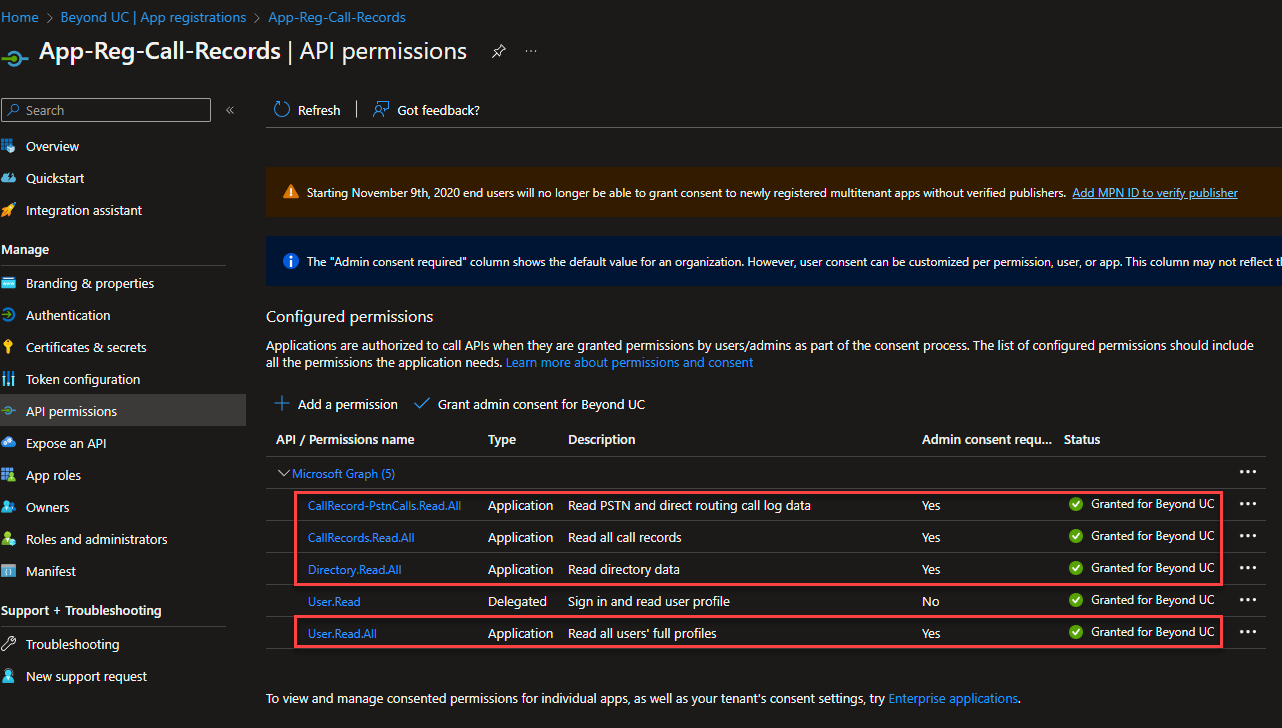
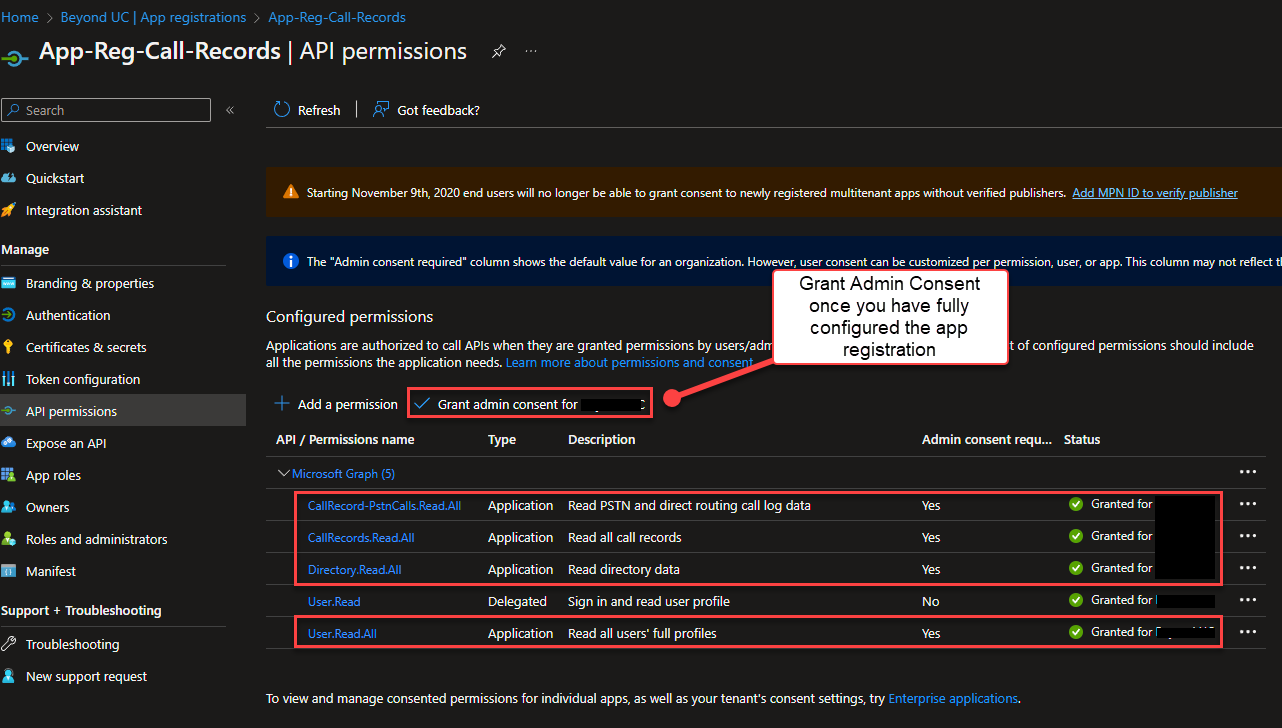
Updated Documentation

Changed region(s): [[0.312, 0.3626, 0.8112, 0.5742], [0.8736, 0.6648, 0.9672, 0.8764]]

diff --git a/README.md b/README.md
@@ -11,17 +11,93 @@
 
 # Setup
 
-Clone Repo
+1. Fork Repo
+
+![image info](./images/8.png) 
+
+2. App Registration Creation
+
+    - Create a new App Registration in AAD and select "Web" for the Redirect URI and leave the value empty. Click "Register"
+    - Create a Client Secret and give it a period of your choosing
+    - Make the below modifications to support oAuth Flowtype and permissions required:
+
+![image info](./images/1.png) 
+
+![image info](./images/2.png) 
+
+![image info](./images/3.png) 
+
+1. Create Resource Group
+
+    navigate to http://portal.azure.com and Create a Resource Group in the appropriate region
+
+    ![image info](./images/9.png) 
+
+2. Create Azure Function
+
+    Select the Market place template for Function App
+    
+    ![image info](./images/10.png) 
+
+    Create an Azure function with the following properties:
+    - Publish: Code
+    - Runtime Stack: .NET
+    - Version: 6
+    - Operating System: Windows
+    - Plan type: Comsumption (Serverless)
+  
+    ![image info](./images/11.a.png) 
+    
+    ![image info](./images/11.b.png) 
+    
+    ![image info](./images/11.c.png) 
+    
+    ![image info](./images/11.d.png) 
+
+3. Configuration
+
+    Navigate to the Function App-->Settings-->Configuration
+    
+    ![image info](./images/12.png) 
+
+    Add the following App Configuration settings
+
+    - Name: TenantID, Value: [TENANT ID OF YOUR APP REGISTRATION CREATED EARLIER]
+    - Name: ClientID, Value: [CLIENT ID OF YOUR APP REGISTRATION CREATED EARLIER]
+    - Name: ClientSecret, Value: [ClientSecret OF YOUR APP REGISTRATION CREATED EARLIER]
+    - Name: TeamsWebHook, Value: [INCOMING WEBHOOK URI TO ACCEPT NOTIFICATION]
+    - Name: ThresholdLimit, Value: [THRESHOLD WHEN CLOSE TO PLAN LIMIT, DEFAULT IS 80 FOR 80%]
+    - Name: NotificationType, Value: [HOW TO BE NOTIFIED: Teams, Console, or ALL]
+    - Name: SendOnlyWhenThresholdExceeded, Value: [true or false]
+    - Name: CronTimerSchedule, Value: [a CRON syntax string to run the function, Default setting is every 10 minutes for testing. please change this to once a day ]
+      - Some example values:
+        - 0 */10 * * * * = Once every 10 Minutes
+        - 0 */1 * * * * = Once every Minute
+        - 0 0 22 * * * = Once every day at 10:00PM
+     
+# Run
+
+Restart the function once the configuration has completed. you can do so at the Function App-->Overview Page:
+
+![image info](./images/13.png) 
+
+You can view the log tail by navigating to Function App-->Monitoring-->Log Stream and click "start":
+
+![image info](./images/14.png) 
+
+Check for errors. 
+
+Done: You should see Console Information showing in the Log Stream as Well as Teams Messages in the channel you setup your incoming webhook if all is correct!
+
+# Build / Debug
 
 ```bash
+
 git clone https://github.com/microsoft/pstn-callrecord-plan-alerts.git
-```
 
-# Build
-
-```bash
 [C#]
-dotnet run build
+dotnet build
+func start
 
 
 ```
@@ -48,14 +124,6 @@ Use of Microsoft trademarks or logos in modified versions of this project must n
 Any use of third-party trademarks or logos are subject to those third-party's policies.
 
 # Notes
-
-**App Registration Modifications**
-
-![image info](./images/1.png) 
-
-![image info](./images/2.png) 
-
-![image info](./images/3.png) 
 
 **Call Plan Limits and Configuration Settings**
 
